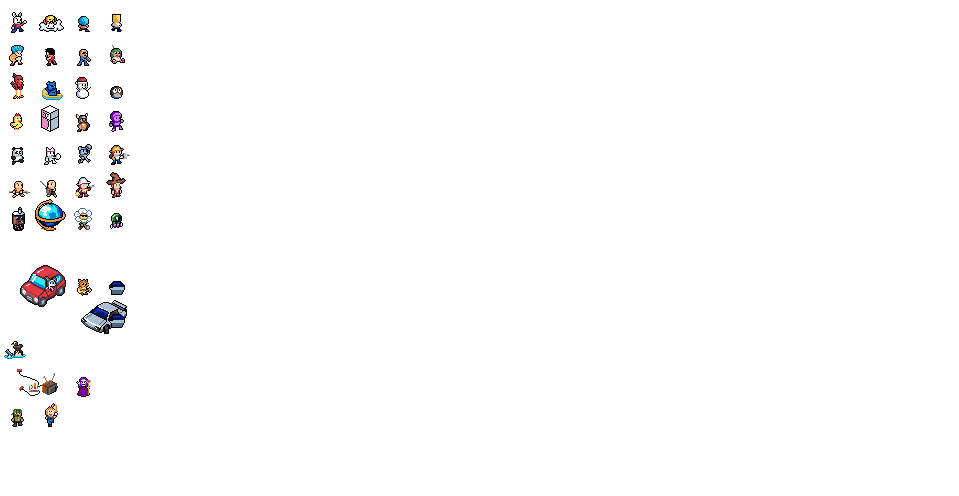
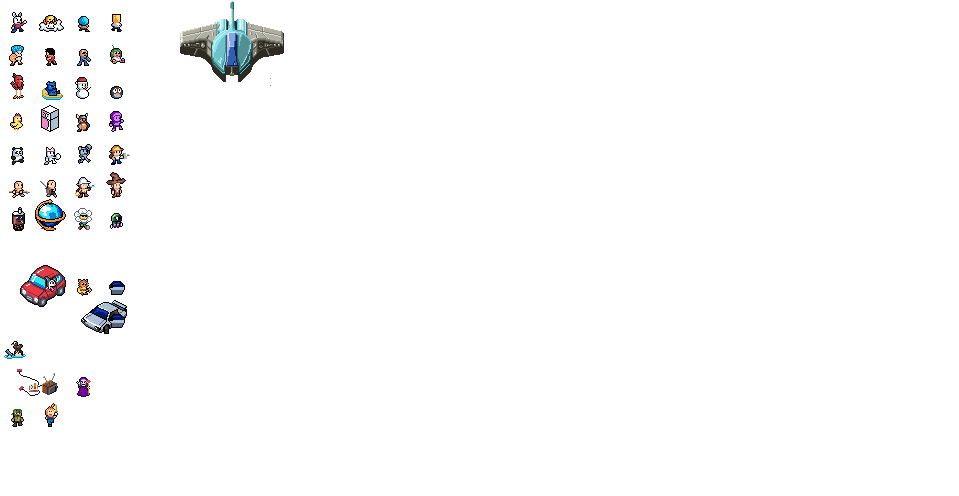
Starfighter

Changed region(s): [[0.1814, 0.0302, 0.3024, 0.1815]]

diff --git a/playhouse/README.md b/playhouse/README.md
@@ -1,3 +1,5 @@
+![Playhouse](https://raw.githubusercontent.com/cxong/cxong/master/playhouse/playhouse.png)
+
 Pixel art clubhouse of original characters appearing in games or music I've made.
 
 Places this appears in:
